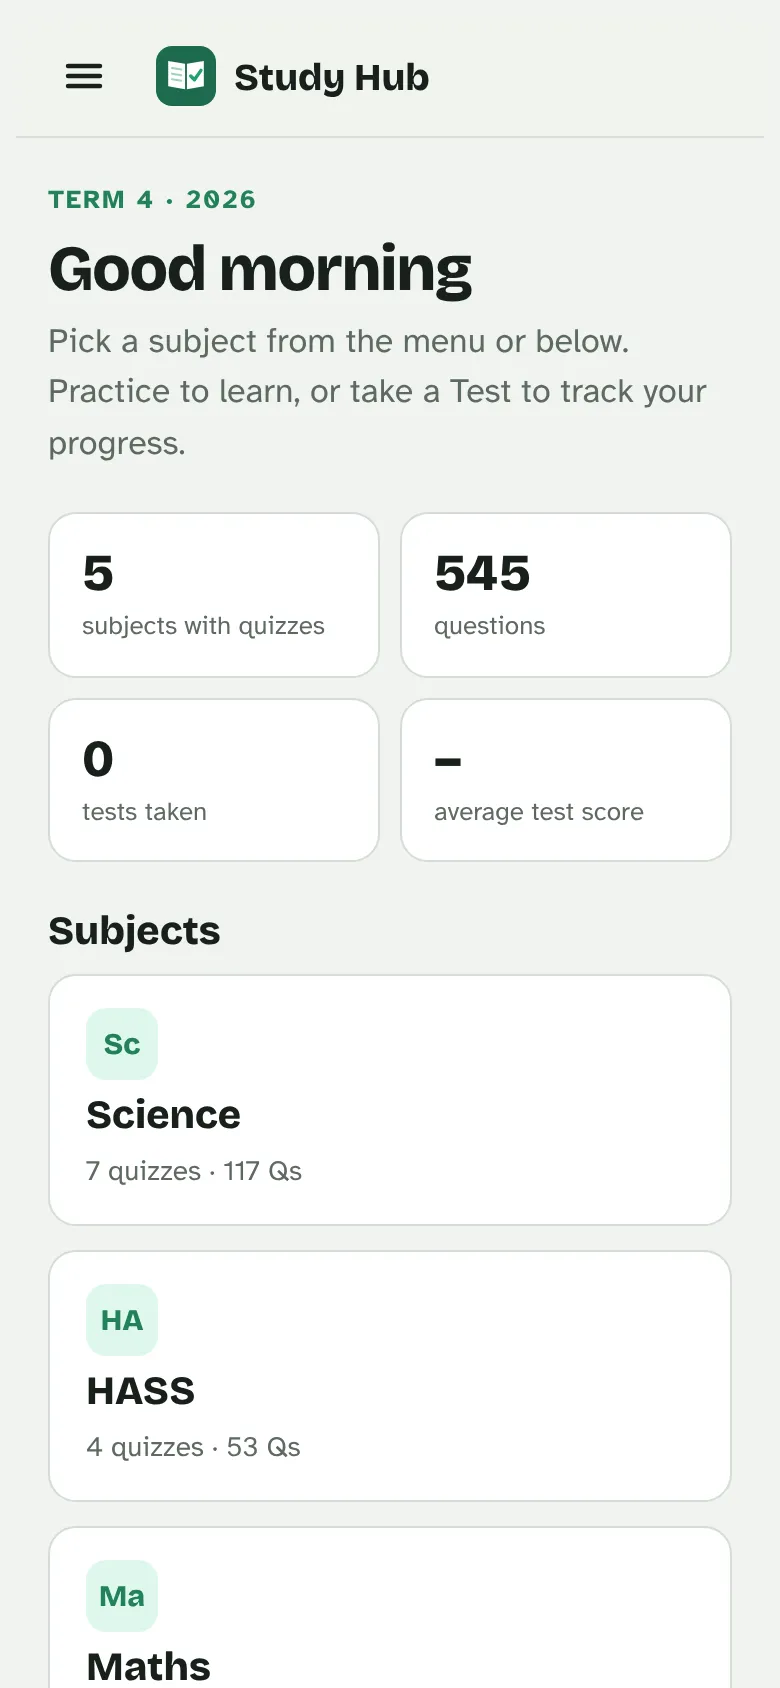
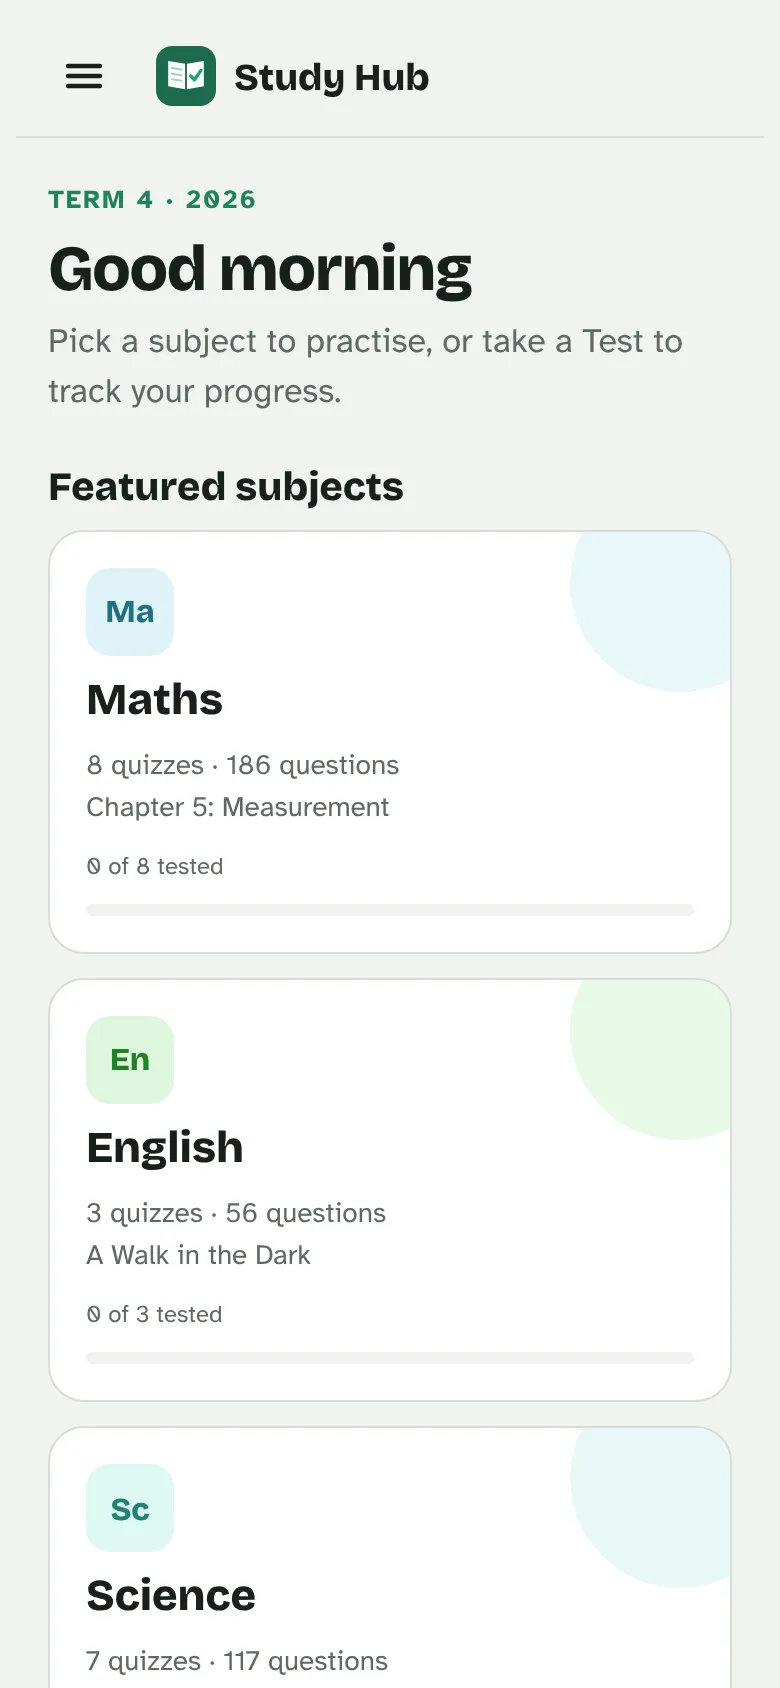
App 1.5: two-column home with featured core subjects and stats; link preview image
Claude-Session: https://claude.ai/code/session_01RPEkC1irPpA7aFvhrFjVJm

diff --git a/app/index.html b/app/index.html
@@ -11,6 +11,21 @@
 <link rel="manifest" href="../manifest.webmanifest">
 <link rel="icon" href="../logo.svg" type="image/svg+xml">
 <link rel="apple-touch-icon" href="../icon-180.png">
+<meta property="og:type" content="website">
+<meta property="og:site_name" content="Study Hub">
+<meta property="og:title" content="Study Hub · Download the app">
+<meta property="og:description" content="Quizzes, tests and progress tracking for every subject. Tap to install it free on Android, iPhone or your computer.">
+<meta property="og:url" content="https://jakobball10.github.io/study-hub/">
+<meta property="og:image" content="https://jakobball10.github.io/study-hub/og-image.jpg?v=1.5">
+<meta property="og:image:secure_url" content="https://jakobball10.github.io/study-hub/og-image.jpg?v=1.5">
+<meta property="og:image:type" content="image/jpeg">
+<meta property="og:image:width" content="1200">
+<meta property="og:image:height" content="630">
+<meta property="og:image:alt" content="Study Hub app with a Download the app button">
+<meta name="twitter:card" content="summary_large_image">
+<meta name="twitter:title" content="Study Hub · Download the app">
+<meta name="twitter:description" content="Quizzes, tests and progress tracking for every subject. Install it free.">
+<meta name="twitter:image" content="https://jakobball10.github.io/study-hub/og-image.jpg?v=1.5">
 <title>Study Hub</title>
 <meta name="claude:viewport-fit-sides" content="cover">
 <link rel="preconnect" href="https://fonts.googleapis.com">
@@ -305,6 +320,37 @@ body.calc-open #app{padding-bottom:420px}
 .jump .t b{font-family:var(--display);font-size:17px;line-height:1.2}
 .jump .t small{color:var(--muted);font-size:13px}
 .jump .go{margin-left:auto;font-weight:700;color:hsl(var(--h) 58% var(--acc-l));white-space:nowrap}
+
+/* home: featured subjects (left) + stats (right) */
+#app.wide{max-width:1080px}
+.appbar .inner{max-width:1080px}
+.homegrid{display:grid;grid-template-columns:minmax(0,1.15fr) minmax(0,.85fr);gap:28px;align-items:start}
+@media (max-width:860px){.homegrid{grid-template-columns:1fr}}
+.col{display:flex;flex-direction:column;gap:22px;min-width:0}
+.feat4{display:grid;grid-template-columns:1fr 1fr;gap:12px}
+@media (max-width:420px){.feat4{grid-template-columns:1fr}}
+.fcard{display:flex;flex-direction:column;gap:10px;text-align:left;font:inherit;color:var(--fg);cursor:pointer;background:var(--surface);
+  border:1.5px solid var(--line);border-radius:18px;padding:18px;min-height:170px;position:relative;overflow:hidden;transition:border-color .15s,transform .15s}
+.fcard::after{content:"";position:absolute;right:-30px;top:-30px;width:110px;height:110px;border-radius:50%;background:hsl(var(--h) 60% var(--soft-l));opacity:.7}
+.fcard:hover{border-color:hsl(var(--h) 58% var(--acc-l));transform:translateY(-2px)}
+.fcard .m{width:44px;height:44px;border-radius:12px;display:grid;place-items:center;font:800 16px var(--display);background:hsl(var(--h) 60% var(--soft-l));color:hsl(var(--h) 58% var(--acc-l));position:relative;z-index:1}
+.fcard .n{font:800 22px var(--display);line-height:1.1}
+.fcard .d{font-size:14px;color:var(--muted)}
+.fcard .bar{flex:none;height:6px;border-radius:99px;background:var(--bg);overflow:hidden;margin-top:auto}
+.fcard .bar i{display:block;height:100%;background:hsl(var(--h) 58% var(--acc-l));border-radius:99px}
+.fcard .bl{font-size:12px;color:var(--muted);display:flex;justify-content:space-between}
+.fcard.none{cursor:default;border-style:dashed}.fcard.none .n{color:var(--muted)}
+.more{display:flex;flex-wrap:wrap;gap:8px}
+.mchip{display:flex;align-items:center;gap:8px;font:700 14px var(--body);color:var(--fg);background:var(--surface);border:1px solid var(--line);border-radius:999px;padding:6px 14px 6px 6px;cursor:pointer}
+.mchip .m{width:26px;height:26px;border-radius:999px;display:grid;place-items:center;font:800 11px var(--display);background:hsl(var(--h) 60% var(--soft-l));color:hsl(var(--h) 58% var(--acc-l))}
+.mchip small{color:var(--muted);font-weight:400}
+.mchip.soon{border-style:dashed;color:var(--muted);cursor:default}
+.statpanel{background:var(--surface);border:1px solid var(--line);border-radius:18px;padding:18px;display:flex;flex-direction:column;gap:18px}
+.statpanel .tiles{grid-template-columns:1fr 1fr}
+.statpanel .tile{background:var(--bg);border:0}
+.statpanel h3{margin:0;font:800 18px var(--display)}
+.statpanel .jump{background:var(--bg);border-color:transparent}
+.empty-note{font-size:14px;color:var(--muted);margin:0}
 </style>
 </head>
 <body>
@@ -998,29 +1044,43 @@ function home(){
   for(let i=TESTS.length-1;i>=0&&recent.length<3;i--){const t=TESTS[i];const k=t.s+'/'+t.quiz;if(seen.has(k))continue;seen.add(k);const f=find(t);if(f)recent.push({...f,t})}
   const weak=[];SUBJECTS.forEach(s=>s.quizzes.forEach(q=>{const b=bestOf(s.id+"/"+q.title);if(b!=null&&b<80)weak.push({s,q,b})}));weak.sort((a,b)=>a.b-b.b);
   const jump=(x,sub,go)=>`<button class="jump" data-s="${x.s.id}" data-q="${esc(x.q.title)}" style="--h:${x.s.h}"><span class="m">${x.s.short}</span><span class="t"><b>${esc(x.q.title)}</b><small>${esc(x.s.name)} · ${sub}</small></span><span class="go">${go} →</span></button>`;
+  const core=["maths","eng","sci","hass"].map(id=>SUBJECTS.find(s=>s.id===id)).filter(Boolean);
+  const fcard=s=>{
+    if(!s.quizzes.length) return `<div class="fcard none" style="--h:${s.h}"><span class="m">${s.short}</span><span class="n">${esc(s.name)}</span><span class="d">No quizzes yet</span></div>`;
+    const tested=s.quizzes.filter(q=>bestOf(s.id+"/"+q.title)!=null).length;
+    const b=s.quizzes.map(q=>bestOf(s.id+"/"+q.title)).filter(v=>v!=null);
+    const topics=[...new Set(s.quizzes.map(q=>q.topic||'Other'))];
+    return `<button class="fcard" data-id="${s.id}" style="--h:${s.h}"><span class="m">${s.short}</span><span class="n">${esc(s.name)}</span>
+      <span class="d">${s.quizzes.length} quiz${s.quizzes.length>1?'zes':''} · ${totalQs(s)} questions<br>${esc(topics.join(' · '))}</span>
+      <span class="bl"><span>${tested} of ${s.quizzes.length} tested</span><span>${b.length?'best '+Math.max(...b)+'%':''}</span></span>
+      <span class="bar"><i style="width:${Math.round(tested/s.quizzes.length*100)}%"></i></span></button>`};
+  const others=orderedSubjects().filter(s=>!core.includes(s));
   app.innerHTML=`
     <header class="hello">
       <span class="eyebrow">Term 4 · 2026</span>
       <h1>${greet}</h1>
-      <p class="sub">Pick a subject from the menu or below. Practice to learn, or take a Test to track your progress.</p>
+      <p class="sub">Pick a subject to practise, or take a Test to track your progress.</p>
     </header>
-    <div class="tiles">
-      <div class="tile"><b>${withQ}</b><span>subjects with quizzes</span></div>
-      <div class="tile"><b>${all}</b><span>questions</span></div>
-      <div class="tile"><b>${TESTS.length}</b><span>tests taken</span></div>
-      <div class="tile"><b>${avg==null?'–':avg+'%'}</b><span>average test score</span></div>
-    </div>
-    ${recent.length?`<section class="sect"><h3>Jump back in</h3>${recent.map(x=>jump(x,`last test ${pctOf(x.t)}%`,'Go')).join('')}</section>`:''}
-    ${weak.length?`<section class="sect"><h3>Needs more work</h3>${weak.slice(0,3).map(x=>jump(x,`best ${x.b}%`,'Practise')).join('')}</section>`:''}
-    <section class="sect"><h3>Subjects</h3>
-    <div class="grid">${orderedSubjects().map(s=>{
-      const b=s.quizzes.map(q=>bestOf(s.id+"/"+q.title)).filter(v=>v!=null);
-      const meta=s.quizzes.length?`${s.quizzes.length} quiz${s.quizzes.length>1?'zes':''} · ${totalQs(s)} Qs`+(b.length?` · best ${Math.max(...b)}%`:''):'No quizzes yet';
-      return `<button class="subj${s.quizzes.length?'':' empty'}" id="subj-${s.id}" data-id="${s.id}" style="--h:${s.h}">
-        <span class="mark">${s.short}</span><span class="name">${esc(s.name)}</span><span class="meta">${meta}</span></button>`}).join('')}
-    </div></section>
-    <div class="row" id="historyRow"><button class="btn small" id="anaBtn">View analytics</button>${TESTS.length?`<button class="btn ghost small" id="clearBtn">Clear test history</button>`:`<span class="keys">Take a quiz in Test mode to start building your stats.</span>`}</div>`;
-  app.querySelectorAll('.subj').forEach(b=>b.addEventListener('click',()=>subject(b.dataset.id)));
+    <div class="homegrid">
+      <div class="col">
+        <section class="sect"><h3>Featured subjects</h3><div class="feat4">${core.map(fcard).join('')}</div></section>
+        <section class="sect"><h3>More subjects</h3><div class="more">${others.map(s=>s.quizzes.length?`<button class="mchip" data-id="${s.id}" style="--h:${s.h}"><span class="m">${s.short}</span>${esc(s.name)} <small>${s.quizzes.length}</small></button>`:`<span class="mchip soon" style="--h:${s.h}"><span class="m">${s.short}</span>${esc(s.name)} <small>soon</small></span>`).join('')}</div></section>
+      </div>
+      <aside class="col statpanel" aria-label="Your stats">
+        <h3>Your stats</h3>
+        <div class="tiles">
+          <div class="tile"><b>${TESTS.length}</b><span>tests taken</span></div>
+          <div class="tile"><b>${avg==null?'–':avg+'%'}</b><span>average score</span></div>
+          <div class="tile"><b>${new Set(TESTS.map(t=>t.id)).size}</b><span>quizzes tested</span></div>
+          <div class="tile"><b>${all}</b><span>questions in ${withQ} subjects</span></div>
+        </div>
+        ${recent.length?`<section class="sect"><h3>Jump back in</h3>${recent.map(x=>jump(x,`last test ${pctOf(x.t)}%`,'Go')).join('')}</section>`:''}
+        ${weak.length?`<section class="sect"><h3>Needs more work</h3>${weak.slice(0,3).map(x=>jump(x,`best ${x.b}%`,'Practise')).join('')}</section>`:''}
+        ${!TESTS.length?`<p class="empty-note">Take any quiz in <b>Test</b> mode and your scores, recent tests and weak spots will show up here.</p>`:''}
+        <div class="row" id="historyRow"><button class="btn small" id="anaBtn">Full analytics</button>${TESTS.length?`<button class="btn ghost small" id="clearBtn">Clear test history</button>`:''}</div>
+      </aside>
+    </div>`;
+  app.querySelectorAll('.fcard[data-id],.mchip[data-id]').forEach(b=>b.addEventListener('click',()=>subject(b.dataset.id)));
   app.querySelectorAll('.jump').forEach(b=>b.addEventListener('click',()=>{const s=SUBJECTS.find(x=>x.id===b.dataset.s);const q=s.quizzes.find(q=>q.title===b.dataset.q);chooseMode(s,q.title,q.qs,s.id+"/"+q.title,null,q.topic||'Other')}));
   document.getElementById('anaBtn').addEventListener('click',analytics);
   const cb=document.getElementById('clearBtn');
@@ -1579,10 +1639,11 @@ document.addEventListener('keydown',e=>{if(e.key==='Escape'&&drawer.classList.co
 // keep the bar label and menu highlight in sync with every page change
 (function(){
   const _home=home,_subject=subject,_analytics=analytics,_choose=chooseMode;
-  home=function(...a){CUR_SUB=null;_home(...a);whereLabel()};
-  subject=function(id,...a){CUR_SUB=id;_subject(id,...a);whereLabel()};
-  analytics=function(...a){_analytics(...a);whereLabel()};
-  chooseMode=function(s,...a){CUR_SUB=s.id;_choose(s,...a);whereLabel()};
+  const wide=on=>app.classList.toggle('wide',on);
+  home=function(...a){CUR_SUB=null;wide(true);_home(...a);whereLabel()};
+  subject=function(id,...a){CUR_SUB=id;wide(false);_subject(id,...a);whereLabel()};
+  analytics=function(...a){wide(false);_analytics(...a);whereLabel()};
+  chooseMode=function(s,...a){CUR_SUB=s.id;wide(false);_choose(s,...a);whereLabel()};
 })();
 /* ---------- built-in calculator (Maths) ---------- */
 const CALC={ans:0,open:false};
@@ -1830,7 +1891,7 @@ let rz; window.addEventListener('resize',()=>{clearTimeout(rz);rz=setTimeout(()=
 home();
 </script>
 
-<script>window.SH_MODE='app';const APP_VERSION="1.4", APP_NOTES=["New green look and a matching logo everywhere", "Updates now download in the background and switch on by themselves", "Check for updates button in the menu"];</script>
+<script>window.SH_MODE='app';const APP_VERSION="1.5", APP_NOTES=["New home page: featured core subjects on the left, your stats on the right", "Sharing the link now shows a Download the app preview"];</script>
 <script src="../shell.js"></script>
 </body>
 </html>

diff --git a/index.html b/index.html
@@ -5,6 +5,21 @@
 <meta name="viewport" content="width=device-width, initial-scale=1, viewport-fit=cover">
 <title>Study Hub · Get the app</title>
 <meta name="description" content="Study Hub: quizzes, tests and progress tracking for every Term 4 subject. Install it free on Android, iPhone or your computer.">
+<meta property="og:type" content="website">
+<meta property="og:site_name" content="Study Hub">
+<meta property="og:title" content="Study Hub · Download the app">
+<meta property="og:description" content="Quizzes, tests and progress tracking for every subject. Tap to install it free on Android, iPhone or your computer.">
+<meta property="og:url" content="https://jakobball10.github.io/study-hub/">
+<meta property="og:image" content="https://jakobball10.github.io/study-hub/og-image.jpg?v=1.5">
+<meta property="og:image:secure_url" content="https://jakobball10.github.io/study-hub/og-image.jpg?v=1.5">
+<meta property="og:image:type" content="image/jpeg">
+<meta property="og:image:width" content="1200">
+<meta property="og:image:height" content="630">
+<meta property="og:image:alt" content="Study Hub app with a Download the app button">
+<meta name="twitter:card" content="summary_large_image">
+<meta name="twitter:title" content="Study Hub · Download the app">
+<meta name="twitter:description" content="Quizzes, tests and progress tracking for every subject. Install it free.">
+<meta name="twitter:image" content="https://jakobball10.github.io/study-hub/og-image.jpg?v=1.5">
 <meta name="theme-color" content="#1d6b4f">
 <link rel="manifest" href="manifest.webmanifest">
 <link rel="icon" href="logo.svg" type="image/svg+xml">
@@ -133,7 +148,7 @@ footer{border-top:1px solid var(--line);padding:24px 0 40px;color:var(--muted);f
     </div>
   </section>
 
-  <footer><span>Study Hub · version 1.4</span><span>Your scores are saved only on your own device.</span></footer>
+  <footer><span>Study Hub · version 1.5</span><span>Your scores are saved only on your own device.</span></footer>
 </div>
 <script>window.SH_MODE='landing';</script>
 <script src="shell.js"></script>

diff --git a/sw.js b/sw.js
@@ -1,5 +1,5 @@
-const CACHE='studyhub-1.4';
-const CORE=["./", "./index.html", "./logo.svg", "./app/", "./app/index.html", "./shell.js", "./manifest.webmanifest", "./version.json", "./icon-192.png", "./icon-512.png", "./icon-180.png", "./shot-home.webp", "./shot-quiz.webp"];
+const CACHE='studyhub-1.5';
+const CORE=["./", "./index.html", "./logo.svg", "./og-image.jpg", "./app/", "./app/index.html", "./shell.js", "./manifest.webmanifest", "./version.json", "./icon-192.png", "./icon-512.png", "./icon-180.png", "./shot-home.webp", "./shot-quiz.webp"];
 self.addEventListener('install',e=>{e.waitUntil(caches.open(CACHE).then(c=>c.addAll(CORE.map(u=>new Request(u,{cache:'reload'})))).then(()=>self.skipWaiting()))});
 self.addEventListener('activate',e=>{e.waitUntil(caches.keys().then(ks=>Promise.all(ks.filter(k=>k!==CACHE).map(k=>caches.delete(k)))).then(()=>self.clients.claim()))});
 self.addEventListener('message',e=>{if(e.data==='skipWaiting')self.skipWaiting()});
